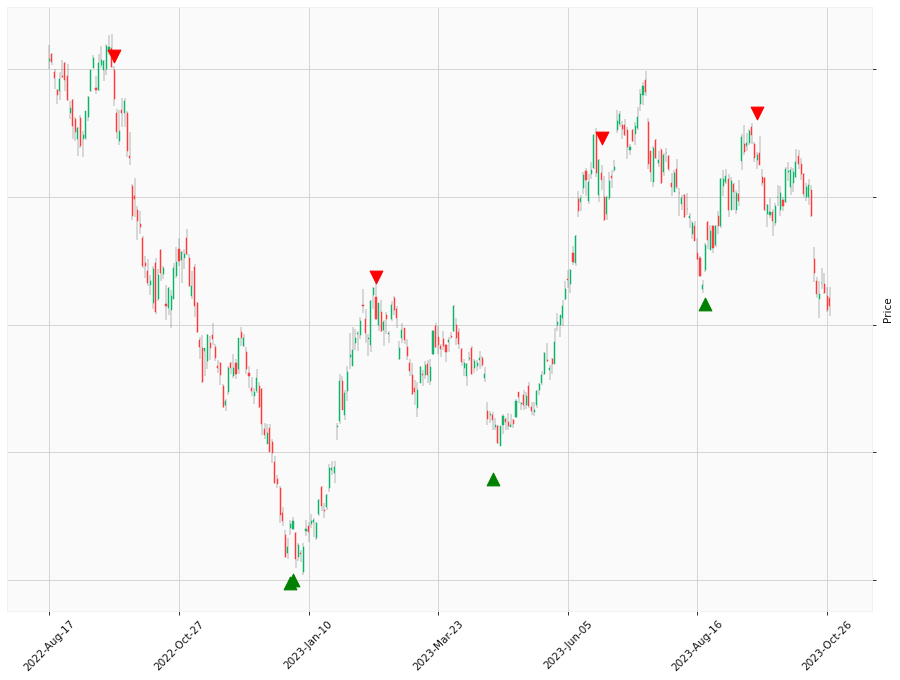
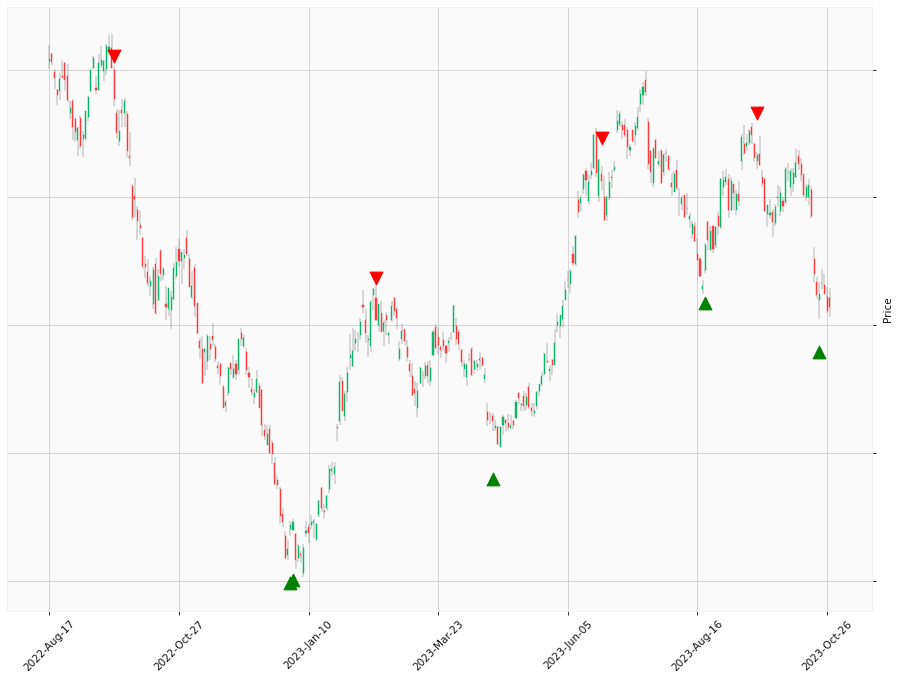
See https://github.com/HappyLabz/HappyLabz_v1/commit/251bd4ba3f65537d373e850d7834f5f5f39f4de2 from refs/heads/main

diff --git a/index.md b/index.md
@@ -101,7 +101,7 @@
         <h2 id="aapl"><a href="{% link navigation/blocked.md %}">AAPL</a></h2>
         <ul>
             <li>DAY: <b><span style="color: #b91c1c;">Short</span></b> at 177.56 as of close <br>Sep 07 2023</li>
-            <li>DELTA: <b><span style="color: #b91c1c;">-9.34 (-5.26%)</span></b> as of close<br>Oct 27 2023</li>
+            <li>DELTA: <b><span style="color: #b91c1c;">-9.34 (-5.26%)</span></b> as of close<br>Oct 28 2023</li>
             <!--<li>WEEK: <b><span style="color: #167816;">Long</span></b> at 134.76 as of close <br>Jan 13 2023</li>-->
         </ul>
     </div>
@@ -109,7 +109,7 @@
         <h2 id="amzn"><a href="{% link navigation/blocked.md %}">AMZN</a></h2>
         <ul>
             <li>DAY: <b><span style="color: #b91c1c;">Short</span></b> at 137.63 as of close <br>Sep 19 2023</li>
-            <li>DELTA: <b><span style="color: #b91c1c;">-9.89 (-7.19%)</span></b> as of close<br>Oct 27 2023</li>
+            <li>DELTA: <b><span style="color: #b91c1c;">-9.89 (-7.19%)</span></b> as of close<br>Oct 28 2023</li>
             <!--<li>WEEK: <b><span style="color: #167816;">Long</span></b> at 98.12 as of close <br>Jan 13 2023</li>-->
         </ul>
     </div>
@@ -117,15 +117,15 @@
         <h2 id="msft"><a href="{% link navigation/blocked.md %}">MSFT</a></h2>
         <ul>
             <li>DAY: <b><span style="color: #167816;">Long</span></b> at 315.75 as of close <br>Sep 29 2023</li>
-            <li>DELTA: <b><span style="color: #167816;">14.06 (4.45%)</span></b> as of close<br>Oct 27 2023</li>
+            <li>DELTA: <b><span style="color: #167816;">14.06 (4.45%)</span></b> as of close<br>Oct 28 2023</li>
             <!--<li>WEEK: <b><span style="color: #167816;">Long</span></b> at 241.22 as of close <br>Nov 18 2022</li>-->
         </ul>
     </div>
     <div class="box gray" onclick="location.href='{% link TSLA.md %}';">
         <h2 id="tsla"><a href="{% link TSLA.md %}">TSLA <span style="color:#0369a1;">&bigstar;</span></a></h2>
         <ul>
-            <li>DAY: <b><span style="color: #b91c1c;">Short</span></b> at 266.50 as of close <br>Sep 19 2023</li>
-            <li>DELTA: <b><span style="color: #b91c1c;">-59.20 (-22.21%)</span></b> as of close<br>Oct 27 2023</li>
+            <li>DAY: <b><span style="color: #167816;">Long</span></b> at 212.08 as of close <br>Oct 23 2023</li>
+            <li>DELTA: <b><span style="color: #b91c1c;">-4.78 (-2.25%)</span></b> as of close<br>Oct 28 2023</li>
             <!--<li>WEEK: <b><span style="color: #167816;">Long</span></b> at 177.90 as of close <br>Jan 27 2023</li>-->
         </ul>
     </div>
@@ -133,7 +133,7 @@
         <h2 id="spy"><a href="{% link navigation/blocked.md %}">SPY</a></h2>
         <ul>
             <li>DAY: <b><span style="color: #b91c1c;">Short</span></b> at 452.49 as of close <br>Jul 27 2023</li>
-            <li>DELTA: <b><span style="color: #b91c1c;">-41.81 (-9.24%)</span></b> as of close<br>Oct 27 2023</li>
+            <li>DELTA: <b><span style="color: #b91c1c;">-41.81 (-9.24%)</span></b> as of close<br>Oct 28 2023</li>
             <!--<li>WEEK: <b><span style="color: #167816;">Long</span></b> at 374.29 as of close <br>Oct 21 2022</li>-->
         </ul>
     </div>

diff --git a/MSFT.md b/MSFT.md
@@ -68,36 +68,36 @@
         <td>4</td>
         <td>Long</td>
         <td>Mar 03 2023 Close</td>
-        <td>26.67 %</td>
-        <td>60.35 %</td>
-        <td>72.38 %</td>
+        <td>32.42 %</td>
+        <td>66.10 %</td>
+        <td>80.20 %</td>
         <td>Long HLT 510 GOOG</td>
     </tr>
     <tr>
         <td>5</td>
         <td>Short</td>
-        <td>Jun 07 2023 Close</td>
-        <td>4.54 %</td>
-        <td>55.81 %</td>
-        <td>64.56 %</td>
-        <td>Short HLT 510 GOOG</td>
+        <td>Jun 20 2023 Close</td>
+        <td>5.04 %</td>
+        <td>61.06 %</td>
+        <td>71.13 %</td>
+        <td>Short HLT 513 AAPL</td>
     </tr>
     <tr>
         <td>6</td>
         <td>Short</td>
-        <td>Jun 20 2023 Close</td>
-        <td>-6.60 %</td>
-        <td>62.41 %</td>
-        <td>75.42 %</td>
-        <td>Short HLT 513 AAPL</td>
+        <td>Jul 19 2023 Close</td>
+        <td>-11.08 %</td>
+        <td>72.13 %</td>
+        <td>90.08 %</td>
+        <td>Short HLT 555</td>
     </tr>
     <tr>
         <td>7</td>
         <td>Long</td>
         <td>Sep 29 2023 Close</td>
         <td>4.45 %</td>
-        <td>66.86 %</td>
-        <td>83.23 %</td>
+        <td>76.59 %</td>
+        <td>98.54 %</td>
         <td>Long HLT 508</td>
     </tr>
     
@@ -120,12 +120,12 @@
         <tr>
             <td>MSFT (HLT Cumulative % Gain)</td>
             <td>2022-08-18 Close <b>-</b> 2023-10-27 Close</td>
-            <td>66.86 %</td>
+            <td>76.59 %</td>
         </tr>
         <tr>
             <td>MSFT (HLT Reinvested % Gain)</td>
             <td>2022-08-18 Close <b>-</b> 2023-10-27 Close</td>
-            <td>83.23 %</td>
+            <td>98.54 %</td>
         </tr>
         <tr>
             <td>S&P 500 (Buy and Hold)</td>

diff --git a/TSLA.md b/TSLA.md
@@ -62,7 +62,7 @@
         <td>64.02 %</td>
         <td>122.92 %</td>
         <td>161.69 %</td>
-        <td>Long HLT 106</td>
+        <td>Long HLT 105</td>
     </tr>
     <tr>
         <td>4</td>
@@ -80,7 +80,7 @@
         <td>57.86 %</td>
         <td>200.33 %</td>
         <td>393.85 %</td>
-        <td>Long HLT 147</td>
+        <td>Long HLT 647</td>
     </tr>
     <tr>
         <td>6</td>
@@ -104,10 +104,19 @@
         <td>8</td>
         <td>Short</td>
         <td>Sep 19 2023 Close</td>
-        <td>-22.21 %</td>
-        <td>247.64 %</td>
-        <td>664.09 %</td>
+        <td>-20.42 %</td>
+        <td>245.85 %</td>
+        <td>652.88 %</td>
         <td>Short HLT 201</td>
+    </tr>
+    <tr>
+        <td>9</td>
+        <td>Long</td>
+        <td>Oct 23 2023 Close</td>
+        <td>-2.25 %</td>
+        <td>243.59 %</td>
+        <td>635.91 %</td>
+        <td>Long HLT 647</td>
     </tr>
     
 </table>
@@ -129,12 +138,12 @@
         <tr>
             <td>TSLA (HLT Cumulative % Gain)</td>
             <td>2022-09-22 Close <b>-</b> 2023-10-27 Close</td>
-            <td>247.64 %</td>
+            <td>243.59 %</td>
         </tr>
         <tr>
             <td>TSLA (HLT Reinvested % Gain)</td>
             <td>2022-09-22 Close <b>-</b> 2023-10-27 Close</td>
-            <td>664.09 %</td>
+            <td>635.91 %</td>
         </tr>
         <tr>
             <td>S&P 500 (Buy and Hold)</td>
